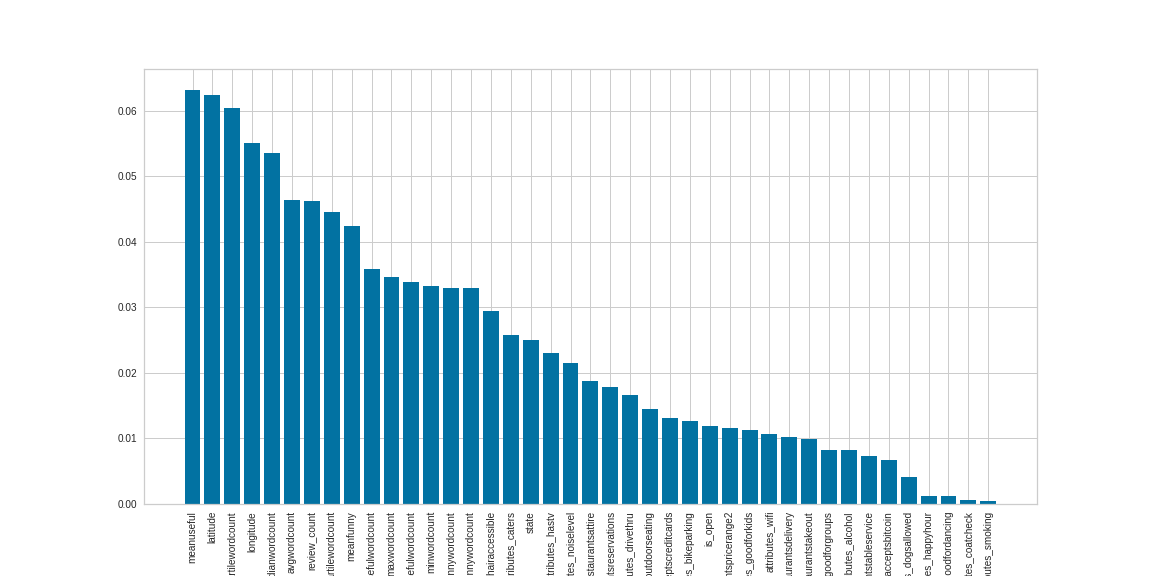
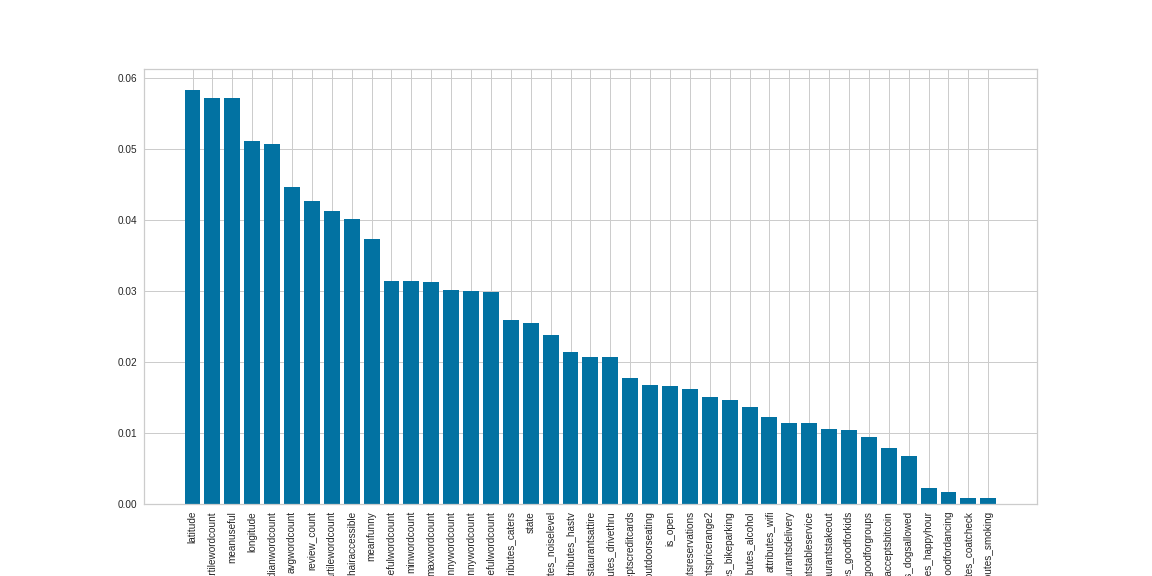
compared drop vs not in ohe

diff --git a/tn_helper.py b/tn_helper.py
@@ -18,15 +18,18 @@ def top_models(results):
     results_df.index=['rf_results', 'svm_mc_results', 'svm_ny_results', 'log_results']
     return results_df
 
-def feature_importance(model, X_train, categorical_features, numerical_features):
+def feature_importance(model, X_train, categorical_features, numerical_features, drop=True):
     """ This returns a dataframe with features and their importances. Input should be a
     fitted random forest model, the training data and the list of categorical features"""
     
     importances=model.feature_importances_
-    ohe=OneHotEncoder(drop='first').fit(X_train[categorical_features])
+    if drop:
+        ohe=OneHotEncoder(drop='first').fit(X_train[categorical_features])
+    else:
+        ohe=OneHotEncoder(drop=None).fit(X_train[categorical_features])
     categorical_names=ohe.get_feature_names()
     feature_names=numerical_features+list(categorical_names)
     importances_df=pd.concat([pd.DataFrame(importances),pd.DataFrame(feature_names)],axis=1)
     importances_df.columns=['Importance','Feature']
     importances_df=importances_df.sort_values(by='Importance',ascending=False)
-    return importances_df, ohe
+    return importances_df
